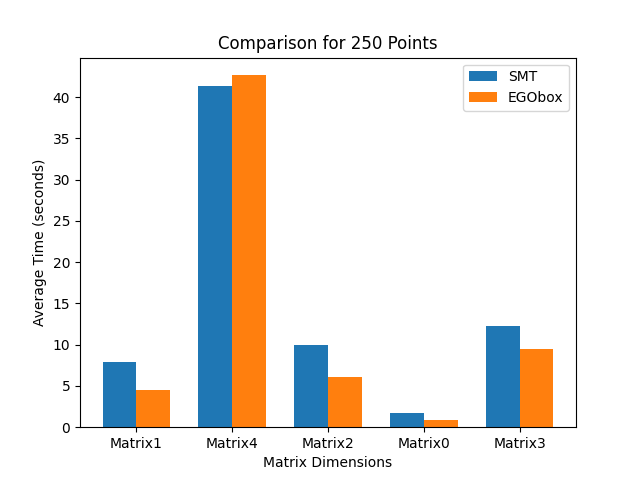
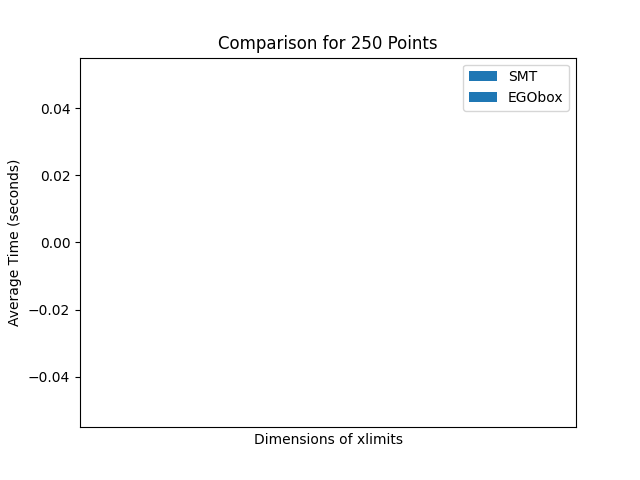
refactoring of bench

diff --git a/diagram_generator.py b/diagram_generator.py
@@ -14,24 +14,18 @@ def create_chart(matrix_dimensions, list_num_points, data):
         bar_width = 0.35
 
         for i, program in enumerate(["SMT", "EGObox"]):
-            matrix_means = [
-                np.mean(data[program][matrix][npoints]) for matrix in matrix_dimensions
-            ]
-            matrix_stddevs = [
-                np.std(data[program][matrix][npoints]) for matrix in matrix_dimensions
-            ]
+            matrix = [data[program][matrix][npoints] for matrix in matrix_dimensions]
 
             ax.bar(
                 np.arange(len(matrix_dimensions)) + i * bar_width,
-                matrix_means,
-                yerr=matrix_stddevs,
+                matrix,
                 width=bar_width,
                 label=program,
             )
 
         ax.set_xticks(np.arange(len(matrix_dimensions)) + bar_width / 2)
         ax.set_xticklabels(matrix_dimensions)
-        ax.set_xlabel("Matrix Dimensions")
+        ax.set_xlabel("Dimensions of xlimits")
         ax.set_ylabel("Average Time (seconds)")
         ax.set_title(f"Comparison for {npoints} Points")
         ax.legend()
@@ -41,25 +35,23 @@ def create_chart(matrix_dimensions, list_num_points, data):
 
 
 if __name__ == "__main__":
-    csv_filename = "results_benchmark.csv"
+    csv_filename = "results_benchmark2.csv"
 
     data = {"SMT": {}, "EGObox": {}}
 
     with open(csv_filename, mode="r") as file:
         reader = csv.DictReader(file)
         for row in reader:
-            program = row["Program"]
-            matrix = row["Matrix"]
-            num_points = int(row["Num_Points"])
-            average_time = float(row["Average_Time_(seconds)"])
+            program = row["lib"]
+            matrix = row["dim"]
+            num_points = int(row["nb_points"])
+            average_time = float(row["time"])
 
             if matrix not in data[program]:
                 data[program][matrix] = {}
 
             if num_points not in data[program][matrix]:
-                data[program][matrix][num_points] = []
-
-            data[program][matrix][num_points].append(average_time)
+                data[program][matrix][num_points] = average_time
 
     matrix_dimensions = list(set(data["SMT"].keys()))
     list_num_points = [10, 50, 100, 250, 500, 1000]

diff --git a/refact_bench.py b/refact_bench.py
@@ -1,0 +1,60 @@
+from smt.sampling_methods import LHS
+import egobox as egx
+import numpy as np
+import timeit
+import csv
+
+DIMENSIONS = [5]  # , 10, 20, 100]
+NB_POINTS = [10]  # , 13, 15]
+NB_ITER = 5
+LIBRARIES = ["SMT", "EGOBOX"]
+
+
+def smt_lhs(xlimits, num_points):
+    sampling = LHS(xlimits=xlimits, criterion="ese", random_state=42)
+    sampling(num_points)
+
+
+def egobox_lhs(xlimits, num_points):
+    xspecs = egx.to_specs(xlimits)
+    egx.lhs(xspecs, num_points)
+
+
+ALGOS = {"SMT": smt_lhs, "EGOBOX": egobox_lhs}
+
+
+def run_benchmark():
+    result = []
+    for lib in LIBRARIES:
+        for dim in DIMENSIONS:
+            xlimits = np.full((dim, 2), [0, 1])
+            for num_points in NB_POINTS:
+                print(
+                    f"Running benchmark with {lib} for {xlimits.shape} and {num_points} points"
+                )
+                time = timeit.timeit(
+                    lambda: ALGOS[lib](xlimits, num_points), number=NB_ITER
+                )
+                res = {
+                    "lib": lib,
+                    "dim": dim,
+                    "nb_points": num_points,
+                    "time": time / NB_ITER,
+                }
+                print(res)
+                result.append(res)
+    return result
+
+
+def write_to_csv(csv_filename, result):
+    with open(csv_filename, mode="w", newline="") as csvfile:
+        headers = result[0].keys()
+        writer = csv.DictWriter(csvfile, fieldnames=headers)
+        writer.writeheader()
+
+        for line in result:
+            writer.writerow(line)
+
+
+if __name__ == "__main__":
+    write_to_csv("results_benchmark2.csv", run_benchmark())

diff --git a/bench.py b/bench.py
@@ -11,18 +11,12 @@ import csv
 
 dimensions = [(5, 2), (20, 2), (50, 2), (100, 2), (500, 2)]
 
-matrix5 = np.full((5, 2), [0, 1])
-matrix20 = np.full((20, 2), [0, 1])
-matrix50 = np.full((50, 2), [0, 1])
-matrix100 = np.full((100, 2), [0, 1])
-matrix500 = np.full((500, 2), [0, 1])
+list_xlimits = [np.full(dim, [0, 1]) for dim in dimensions]
 
-list_xlimits = [matrix5, matrix20, matrix50, matrix100, matrix500]
 list_num_points = [10, 50, 100, 250, 500, 1000]
 # list_num_points = [10, 13, 15]
 
-list_smt = []
-list_egobox = []
+
 list_time_smt = []
 list_time_egobox = []
 
@@ -90,7 +84,7 @@ if __name__ == "__main__":
                 average_time_smt = list_time_smt[idx]
                 row = [
                     "SMT",
-                    f"Matrix{i}",
+                    f"{xlimits.shape}",
                     num_points,
                     "{:3f}".format(average_time_smt),
                 ]
@@ -102,7 +96,7 @@ if __name__ == "__main__":
                 average_time_egob = list_time_egobox[idx]
                 row = [
                     "EGObox",
-                    f"Matrix{i}",
+                    f"{xlimits.shape}",
                     num_points,
                     "{:.3f}".format(average_time_egob),
                 ]
